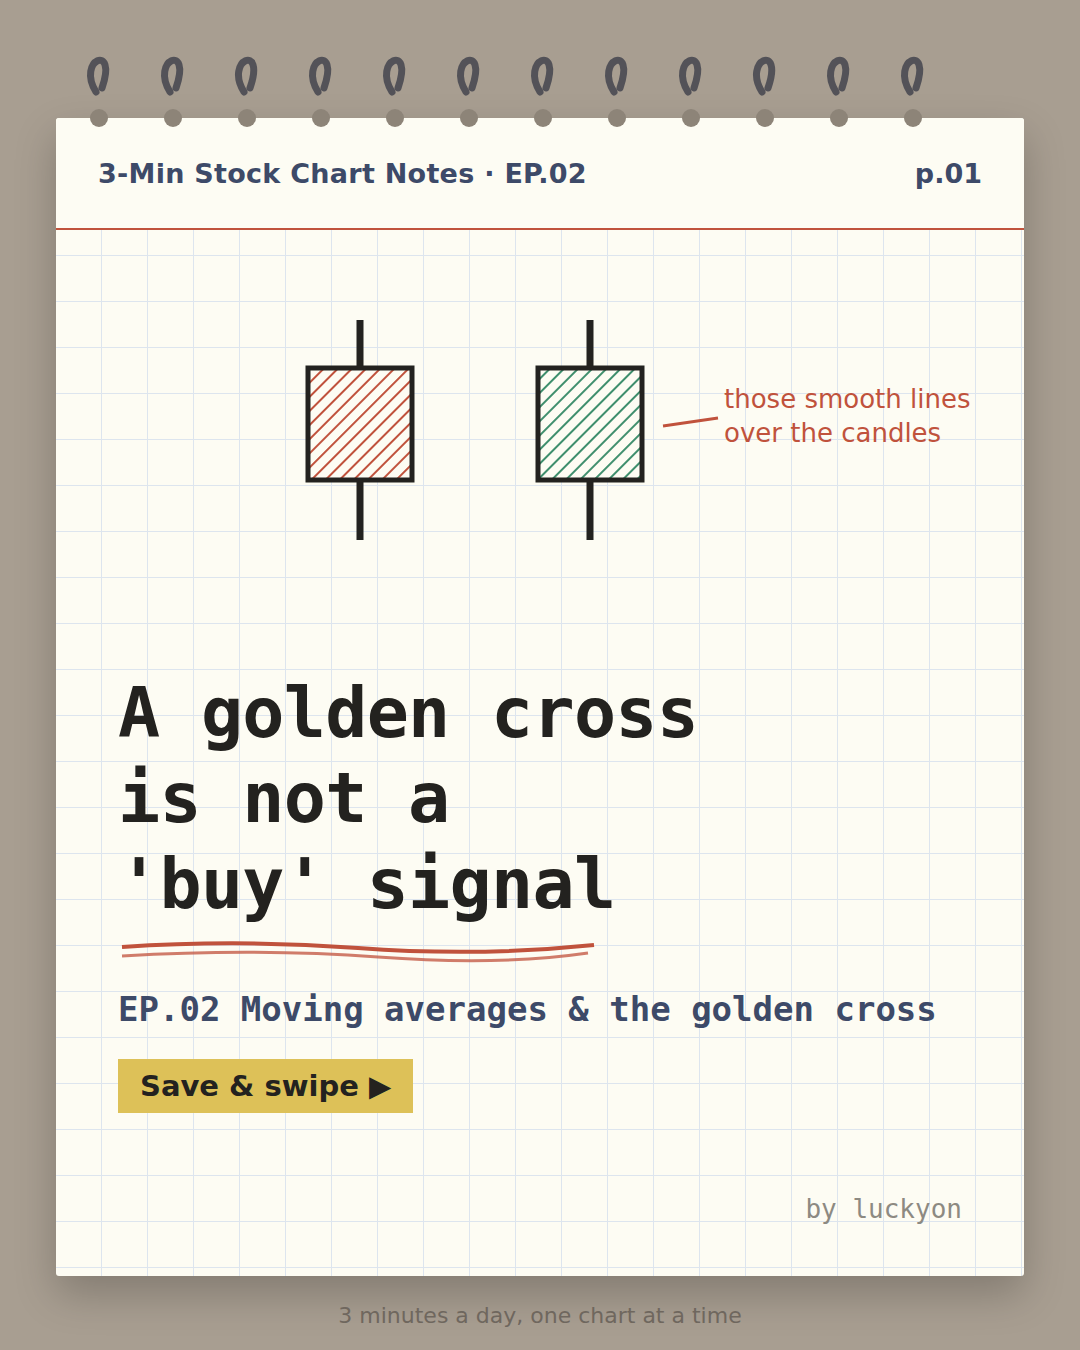
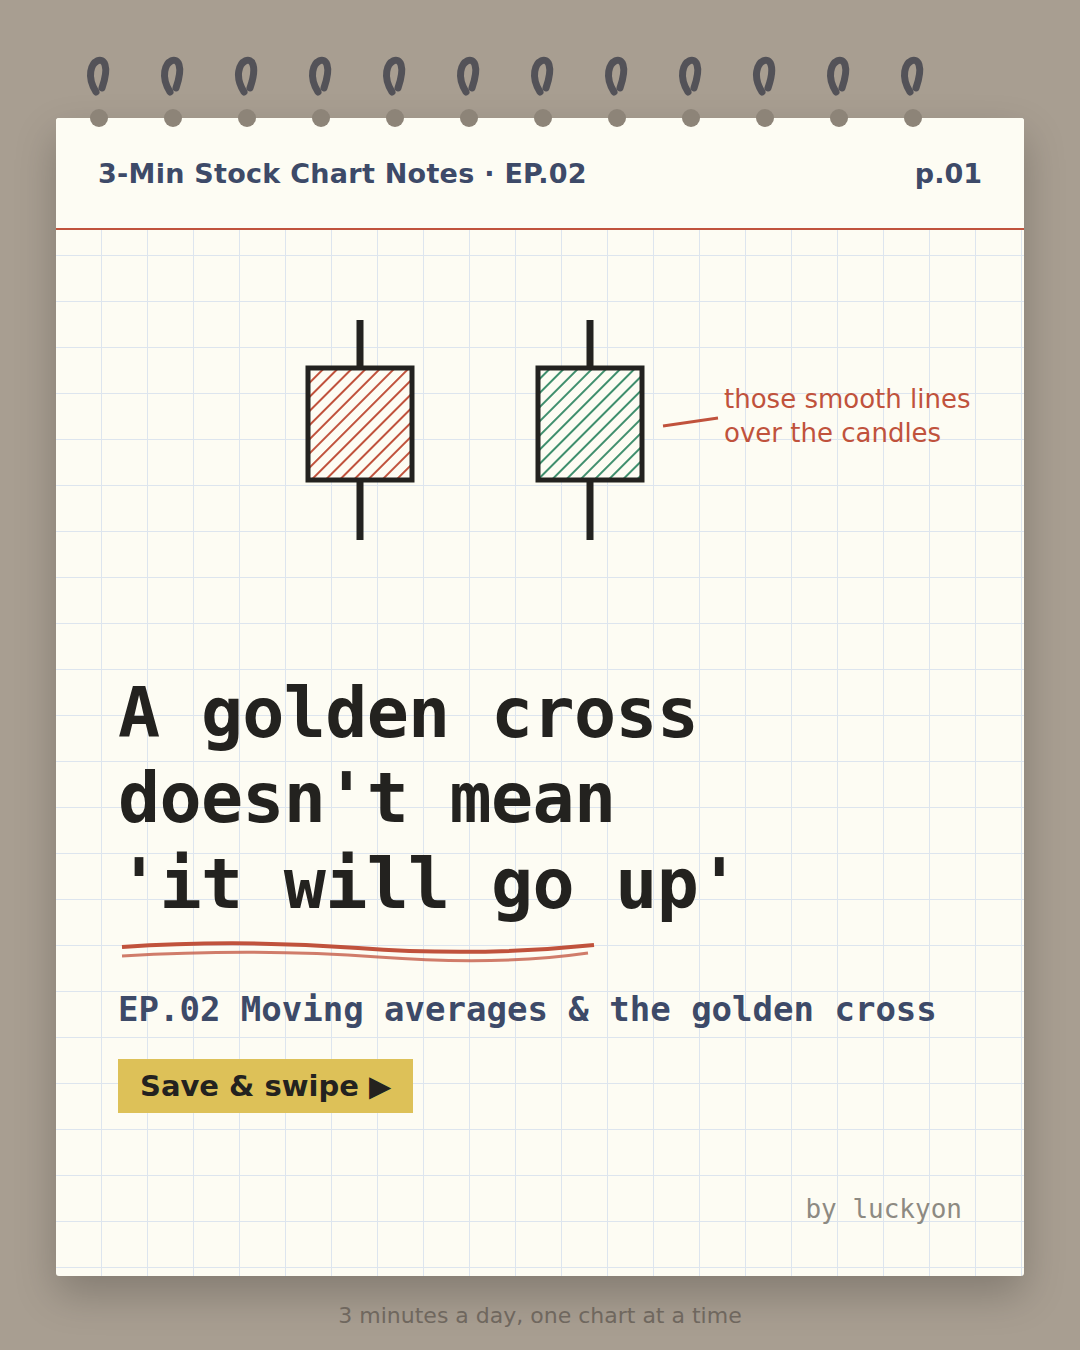
chart-notes: 2026-08-02-ep02 p.01 hook wording fix (ko+en)
이슈 #18 수정 요청 반영.
- KO: '오른다'는 → '오른다'라는 (어감)
- EN: "is not a 'buy' signal" → "doesn't mean 'it will go up'" (KO 훅과 의미 일치)
- 카드 p.01 재렌더, alt 텍스트·캡션·검토 페이지 동기화

Claude-Session: https://claude.ai/code/session_01A14YCuYm9dsiP8oiJMteui

Changed region(s): [[0.0917, 0.56, 0.6722, 0.6844]]

diff --git a/cards/chart-notes/2026-08-02-ep02/preview.html b/cards/chart-notes/2026-08-02-ep02/preview.html
@@ -62,8 +62,8 @@
     <h2>🇰🇷 한국어 — 8장</h2>
     <div class="cards">
     <figure>
-      <img src="ko/card1.png" alt="주식 차트 3분 노트 EP.02 표지 — 골든크로스는 '오른다'는 뜻이 아닙니다" loading="lazy">
-      <figcaption><b>p.01</b> 주식 차트 3분 노트 EP.02 표지 — 골든크로스는 '오른다'는 뜻이 아닙니다</figcaption>
+      <img src="ko/card1.png" alt="주식 차트 3분 노트 EP.02 표지 — 골든크로스는 '오른다'라는 뜻이 아닙니다" loading="lazy">
+      <figcaption><b>p.01</b> 주식 차트 3분 노트 EP.02 표지 — 골든크로스는 '오른다'라는 뜻이 아닙니다</figcaption>
     </figure>
     <figure>
       <img src="ko/card2.png" alt="차트 위 구불구불한 선들의 정체 — 캔들 위에 겹쳐진 이동평균선 소개" loading="lazy">
@@ -93,14 +93,14 @@
       <img src="ko/card8.png" alt="오늘의 3줄 요약과 다음 편(거래량) 예고, 투자 권유가 아니라는 교육 목적 고지" loading="lazy">
       <figcaption><b>p.08</b> 오늘의 3줄 요약과 다음 편(거래량) 예고, 투자 권유가 아니라는 교육 목적 고지</figcaption>
     </figure></div>
-    <h3>캡션 (443자)</h3>
-    <div class="cap">📊 주식 차트 3분 노트 EP.02 — 이동평균선 &amp; 골든크로스<br><br>차트 위에 겹쳐진 그 부드러운 곡선들, 이동평균선입니다.<br>최근 며칠 종가의 평균일 뿐인데 왜 다들 두 선이 만나는 순간을 쳐다볼까요?<br><br>그리고 골든크로스는 '오른다'는 뜻이 아닙니다. 평균은 이미 지나간 가격으로 만들기 때문에, 교차는 예측이 아니라 확인에 가깝습니다.<br>실제로 2026년 7월 21일 코스피에서는 20일선이 60일선을 아래로 뚫는 데드크로스가 나왔습니다. 그 숫자까지 카드에 담았어요.<br><br>📌 저장해두고 차트 볼 때 꺼내보세요<br>👇 주식 시작한 친구 태그하기<br><br>(교육 목적 콘텐츠이며 투자 권유가 아닙니다)<br><br>다음 편은 '거래량' — 가격이 말해주지 않는 것을 거래량이 보여줍니다.<br><br>#주식초보 #주식공부 #이동평균선 #골든크로스 #데드크로스 #주식차트보는법 #코스피 #재테크 #주식용어 #luckyon브리핑</div>
+    <h3>캡션 (444자)</h3>
+    <div class="cap">📊 주식 차트 3분 노트 EP.02 — 이동평균선 &amp; 골든크로스<br><br>차트 위에 겹쳐진 그 부드러운 곡선들, 이동평균선입니다.<br>최근 며칠 종가의 평균일 뿐인데 왜 다들 두 선이 만나는 순간을 쳐다볼까요?<br><br>그리고 골든크로스는 '오른다'라는 뜻이 아닙니다. 평균은 이미 지나간 가격으로 만들기 때문에, 교차는 예측이 아니라 확인에 가깝습니다.<br>실제로 2026년 7월 21일 코스피에서는 20일선이 60일선을 아래로 뚫는 데드크로스가 나왔습니다. 그 숫자까지 카드에 담았어요.<br><br>📌 저장해두고 차트 볼 때 꺼내보세요<br>👇 주식 시작한 친구 태그하기<br><br>(교육 목적 콘텐츠이며 투자 권유가 아닙니다)<br><br>다음 편은 '거래량' — 가격이 말해주지 않는 것을 거래량이 보여줍니다.<br><br>#주식초보 #주식공부 #이동평균선 #골든크로스 #데드크로스 #주식차트보는법 #코스피 #재테크 #주식용어 #luckyon브리핑</div>
 
     <h2>🇺🇸 English — 8장</h2>
     <div class="cards">
     <figure>
-      <img src="en/card1.png" alt="3-Min Stock Chart Notes EP.02 cover — a golden cross is not a 'buy' signal" loading="lazy">
-      <figcaption><b>p.01</b> 3-Min Stock Chart Notes EP.02 cover — a golden cross is not a 'buy' signal</figcaption>
+      <img src="en/card1.png" alt="3-Min Stock Chart Notes EP.02 cover — a golden cross does not mean 'it will go up'" loading="lazy">
+      <figcaption><b>p.01</b> 3-Min Stock Chart Notes EP.02 cover — a golden cross does not mean 'it will go up'</figcaption>
     </figure>
     <figure>
       <img src="en/card2.png" alt="Those smooth curves on the chart — introducing moving averages laid over candles" loading="lazy">
@@ -130,8 +130,8 @@
       <img src="en/card8.png" alt="Recap in three lines, a preview of the next episode on trading volume, and an educational-purpose disclaimer" loading="lazy">
       <figcaption><b>p.08</b> Recap in three lines, a preview of the next episode on trading volume, and an educational-purpose disclaimer</figcaption>
     </figure></div>
-    <h3>캡션 (880자)</h3>
-    <div class="cap">📊 3-Min Stock Chart Notes EP.02 — Moving averages &amp; the golden cross<br><br>Those smooth curves laid over the candles are moving averages.<br>They are just the average of the last few closes — so why does everyone watch the moment two of them meet?<br><br>And a golden cross is not a "buy" signal. An average is built from prices that already happened, so a crossing confirms a trend rather than predicting one.<br>A real one: on July 1, 2025 the S&amp;P 500's 50-day average crossed above its 200-day by just 10 points — and it has stayed above ever since.<br><br>📌 Save it &amp; pull it up when you chart<br>👇 Tag a friend who just started investing<br><br>(Educational content only — not investment advice)<br><br>Next up: trading volume — what price alone won't tell you.<br><br>#investing101 #stockmarket #movingaverage #goldencross #deadcross #tradingforbeginners #stockmarketbasics #investingtips #charting #luckyonbriefing</div>
+    <h3>캡션 (887자)</h3>
+    <div class="cap">📊 3-Min Stock Chart Notes EP.02 — Moving averages &amp; the golden cross<br><br>Those smooth curves laid over the candles are moving averages.<br>They are just the average of the last few closes — so why does everyone watch the moment two of them meet?<br><br>And a golden cross doesn't mean "it will go up". An average is built from prices that already happened, so a crossing confirms a trend rather than predicting one.<br>A real one: on July 1, 2025 the S&amp;P 500's 50-day average crossed above its 200-day by just 10 points — and it has stayed above ever since.<br><br>📌 Save it &amp; pull it up when you chart<br>👇 Tag a friend who just started investing<br><br>(Educational content only — not investment advice)<br><br>Next up: trading volume — what price alone won't tell you.<br><br>#investing101 #stockmarket #movingaverage #goldencross #deadcross #tradingforbeginners #stockmarketbasics #investingtips #charting #luckyonbriefing</div>
 
 
 <div class="act">
